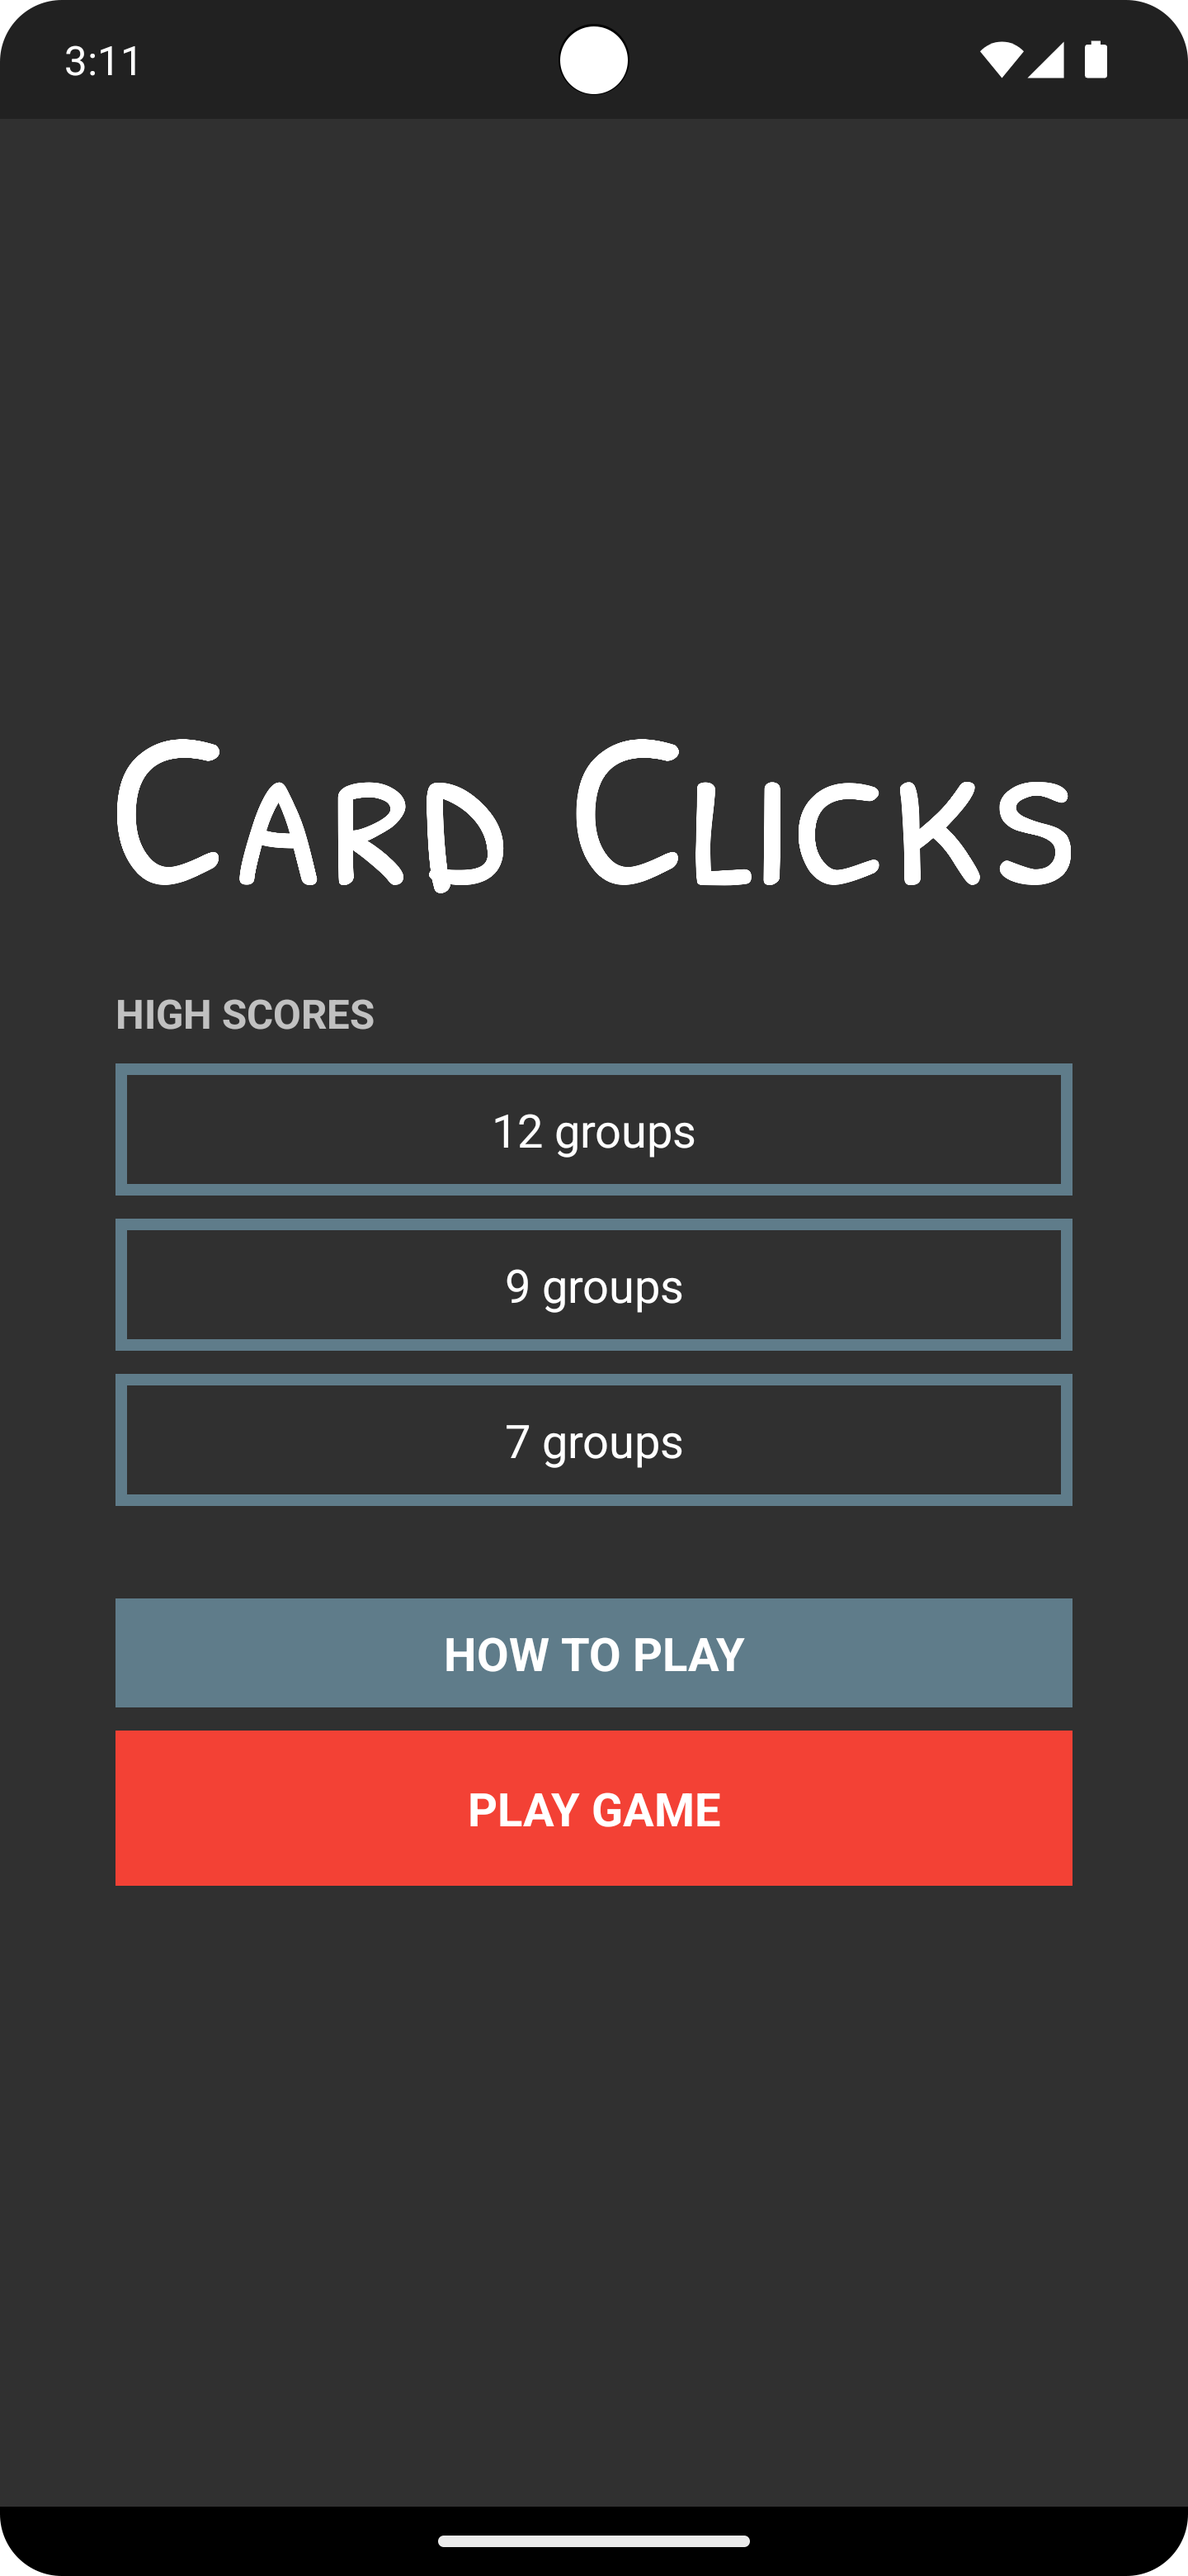
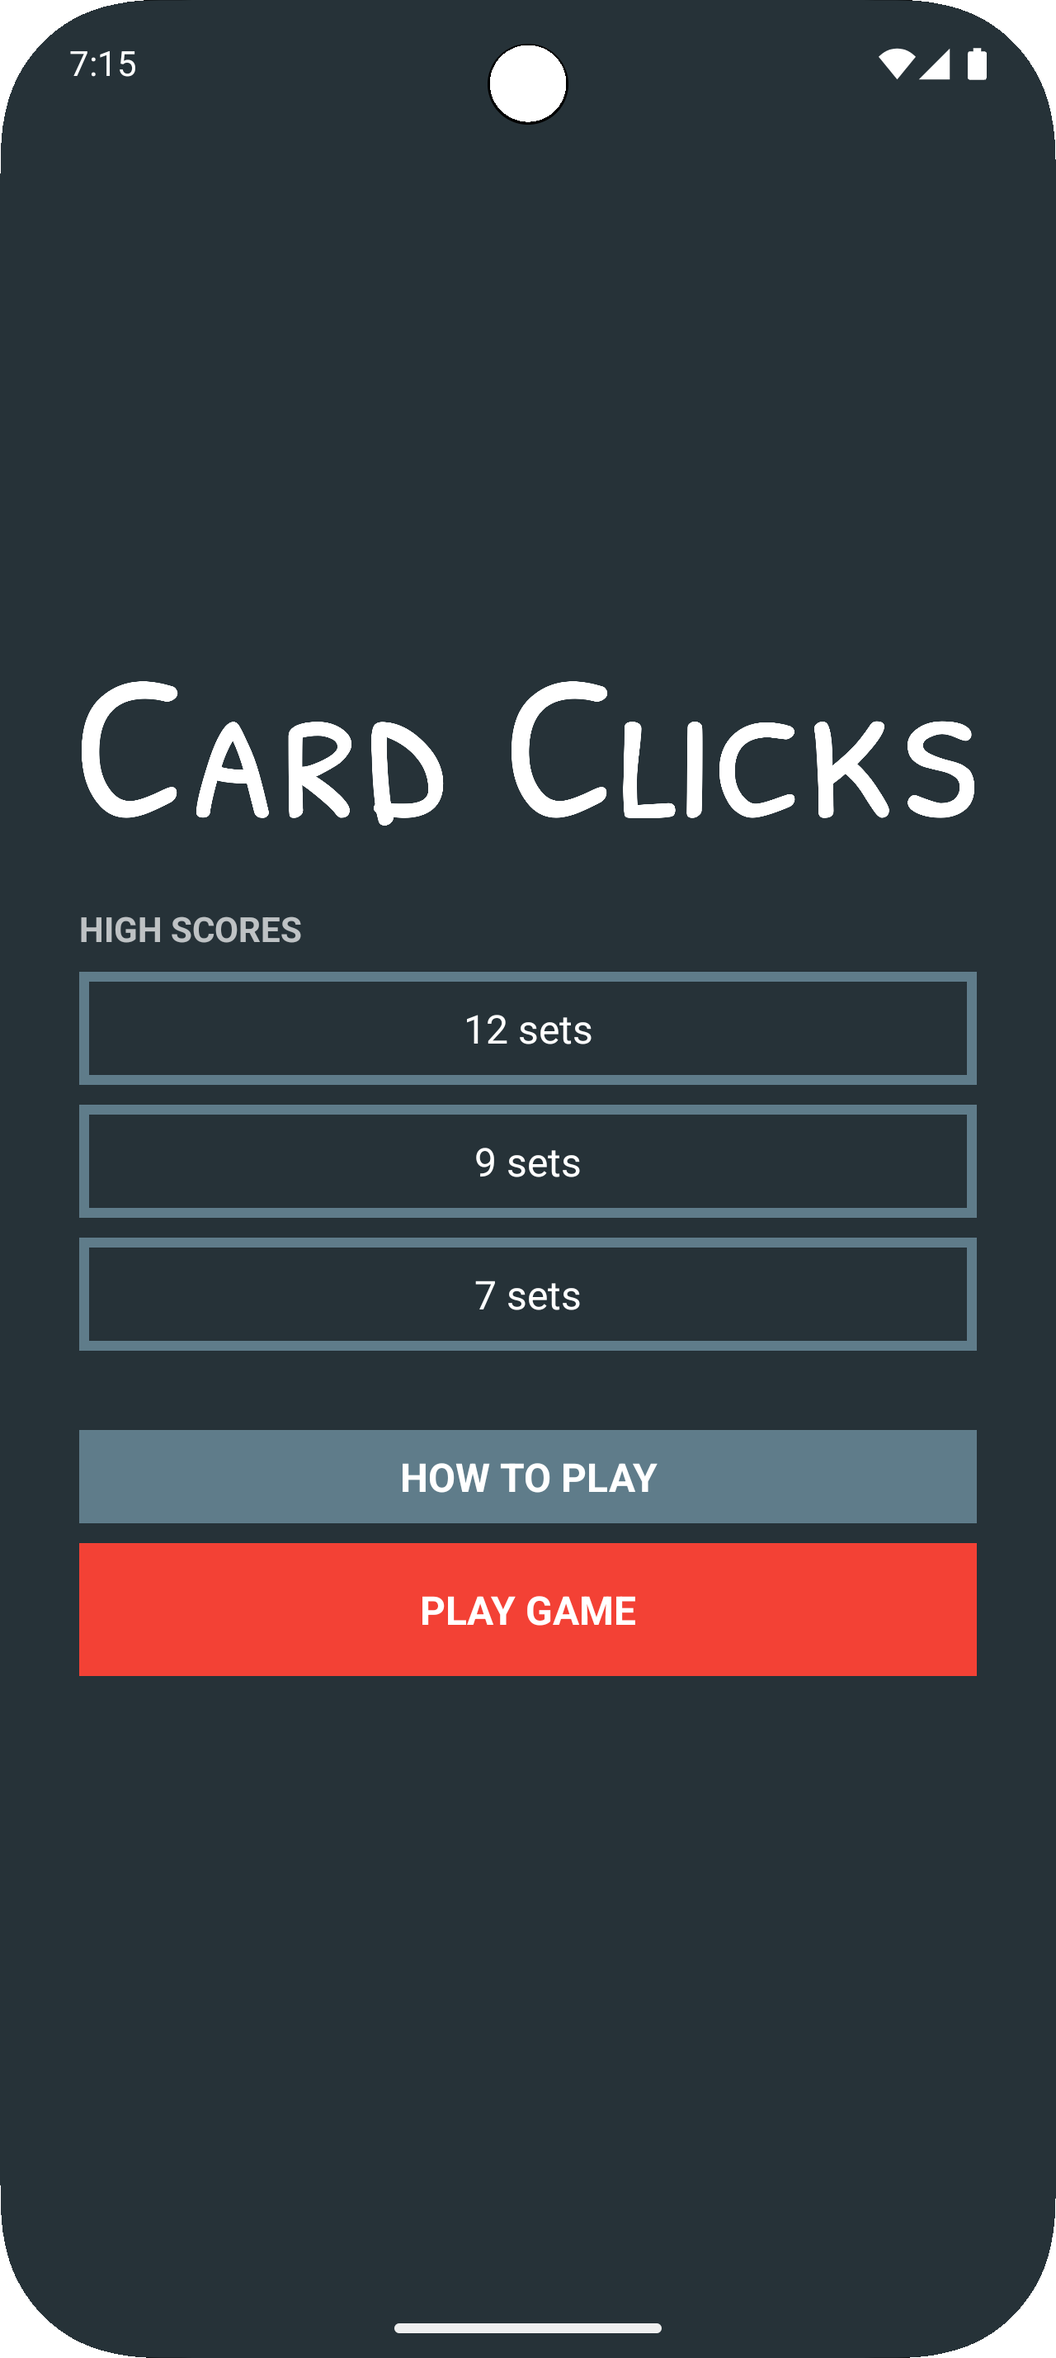
Rotated screenshots

diff --git a/README.md b/README.md
@@ -1,5 +1,9 @@
 ## Card Clicks
 
+<p align="center">
+<img src="branding/web.png" width=20%>
+</p>
+
 Card Clicks is a fun and challenging card game where players find sets of three cards as fast as they can before the timer runs out. Each trait (color, fill, number, and shape) must be entirely different or entirely the same for each card in the set.
 
 ## Download
@@ -12,3 +16,4 @@ You can download the latest `.apk` file from the release page and sideload it on
 
 | ![Screenshot 1](screenshots/1_main.png) | ![Screenshot 2](screenshots/2_game.png) | ![Screenshot 3](screenshots/3_help.png) |
 | ------------- | ------------- | ------------- |
+
